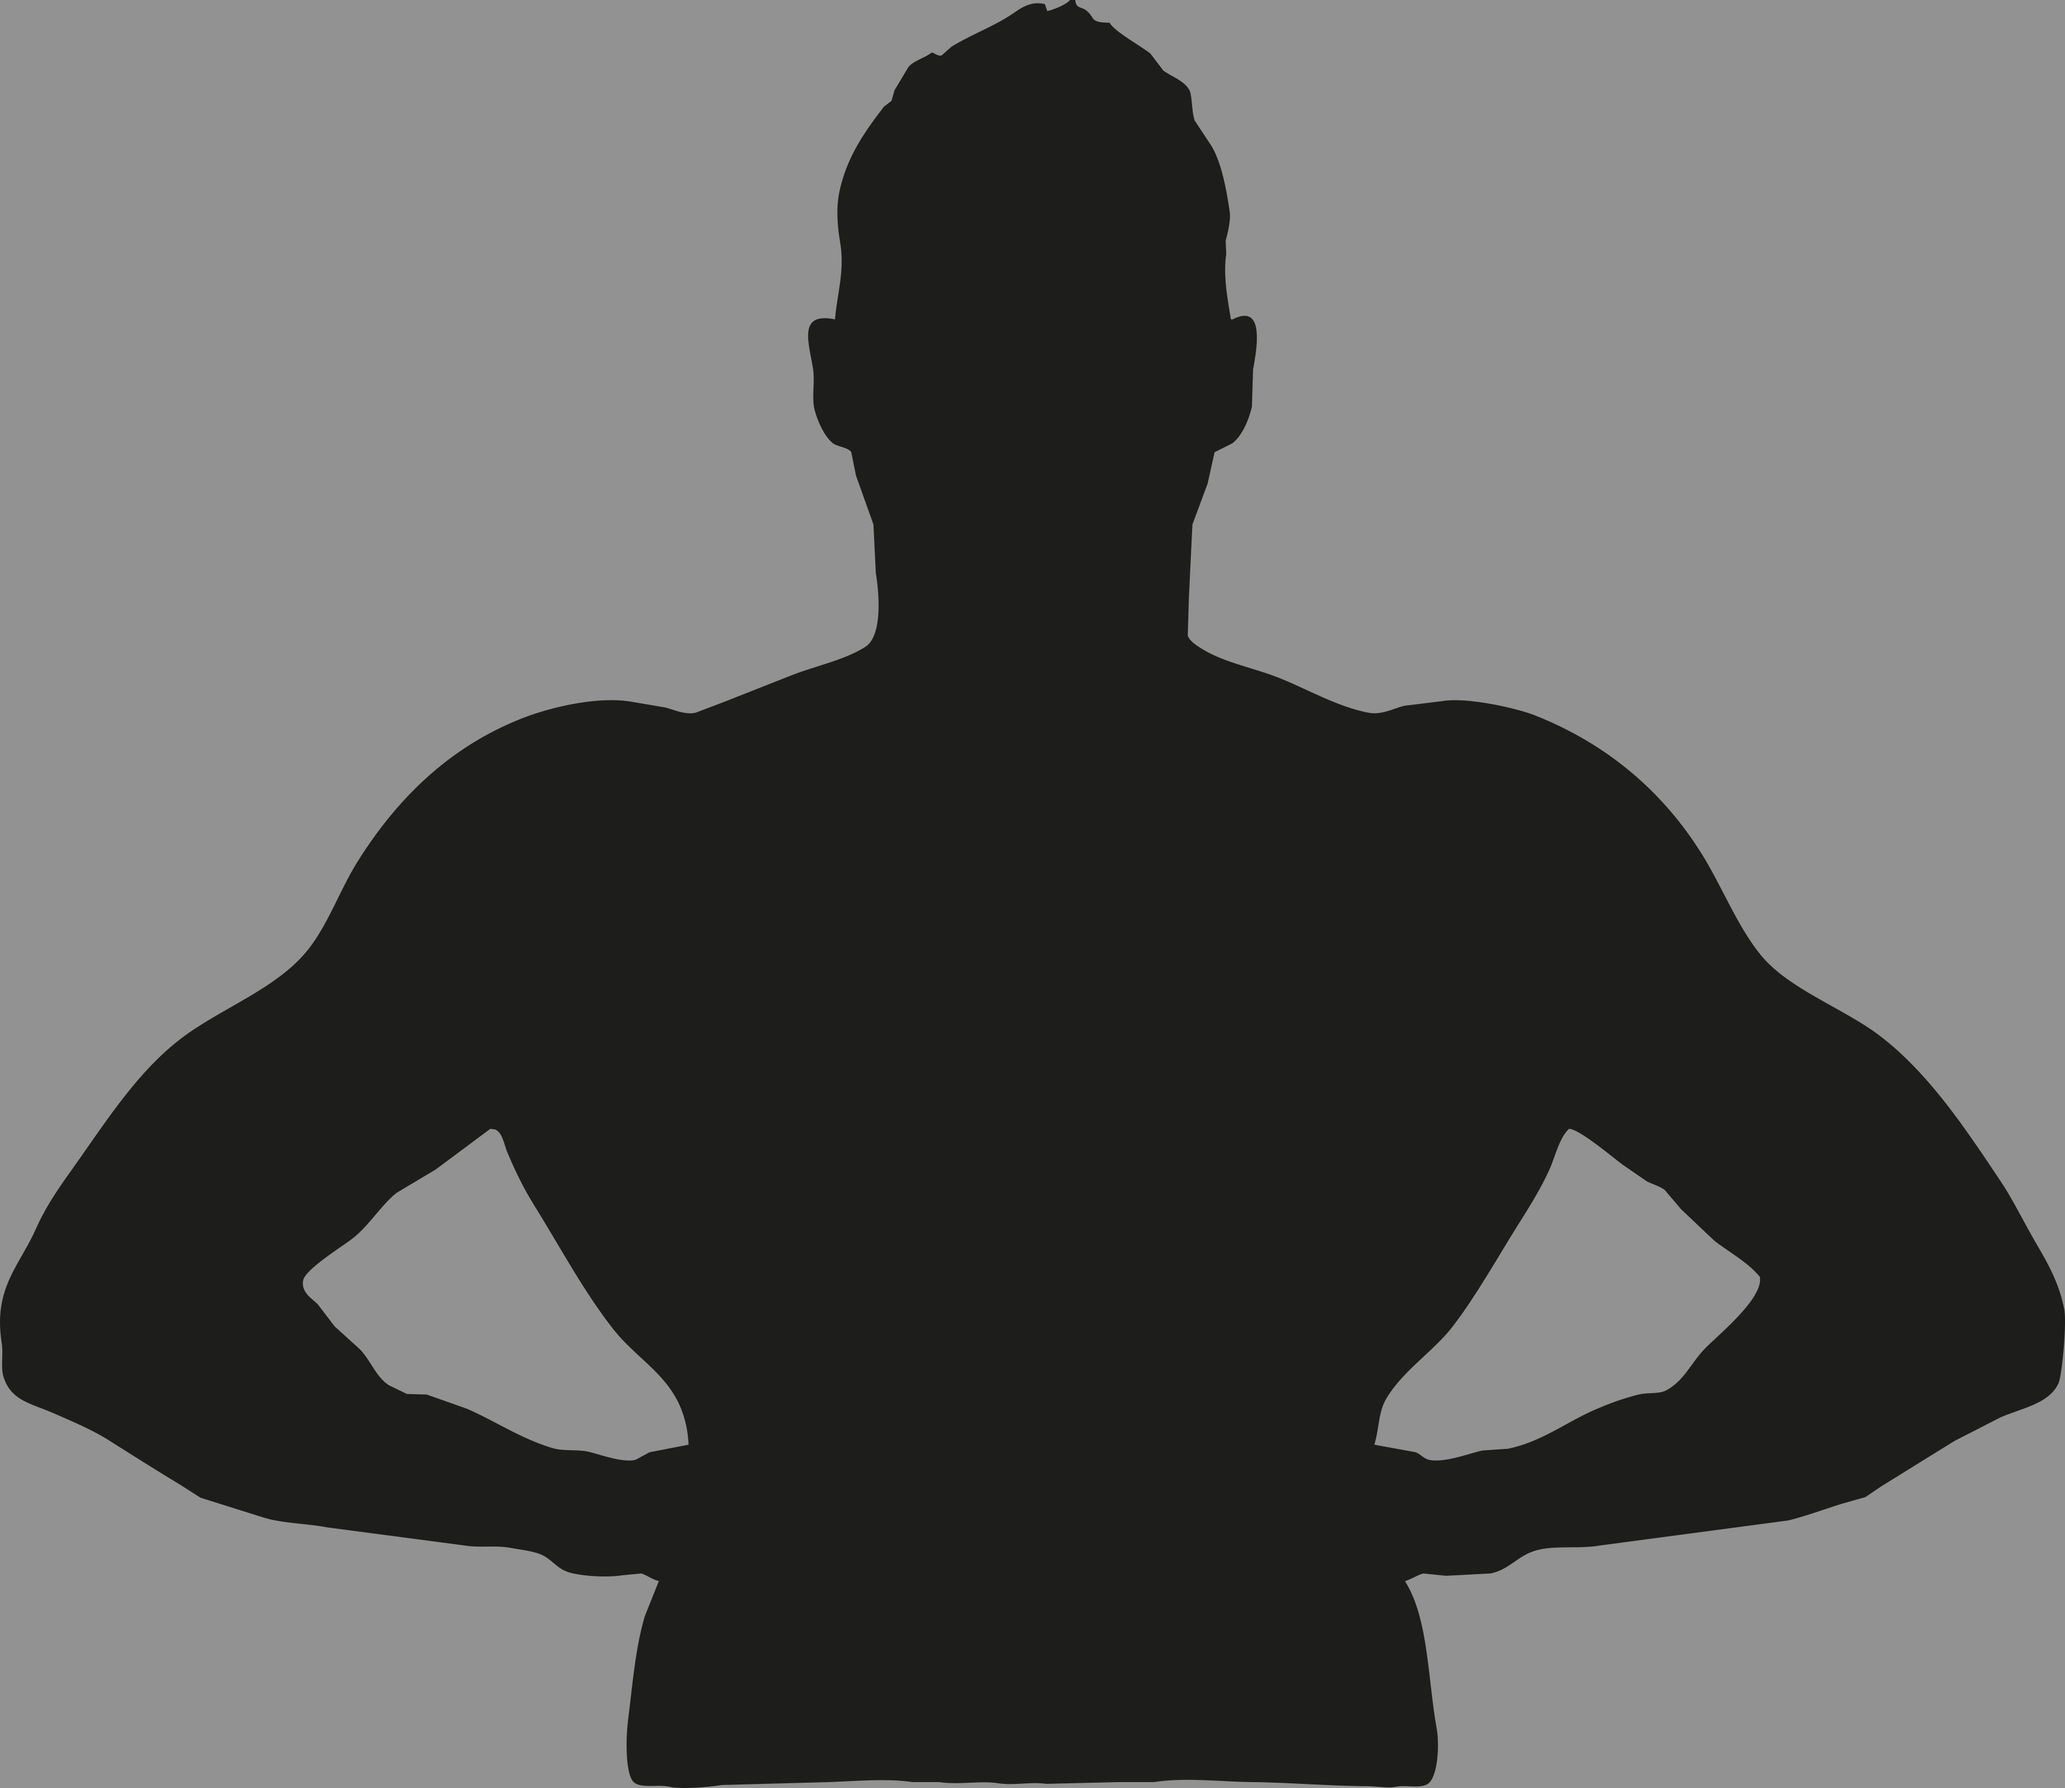
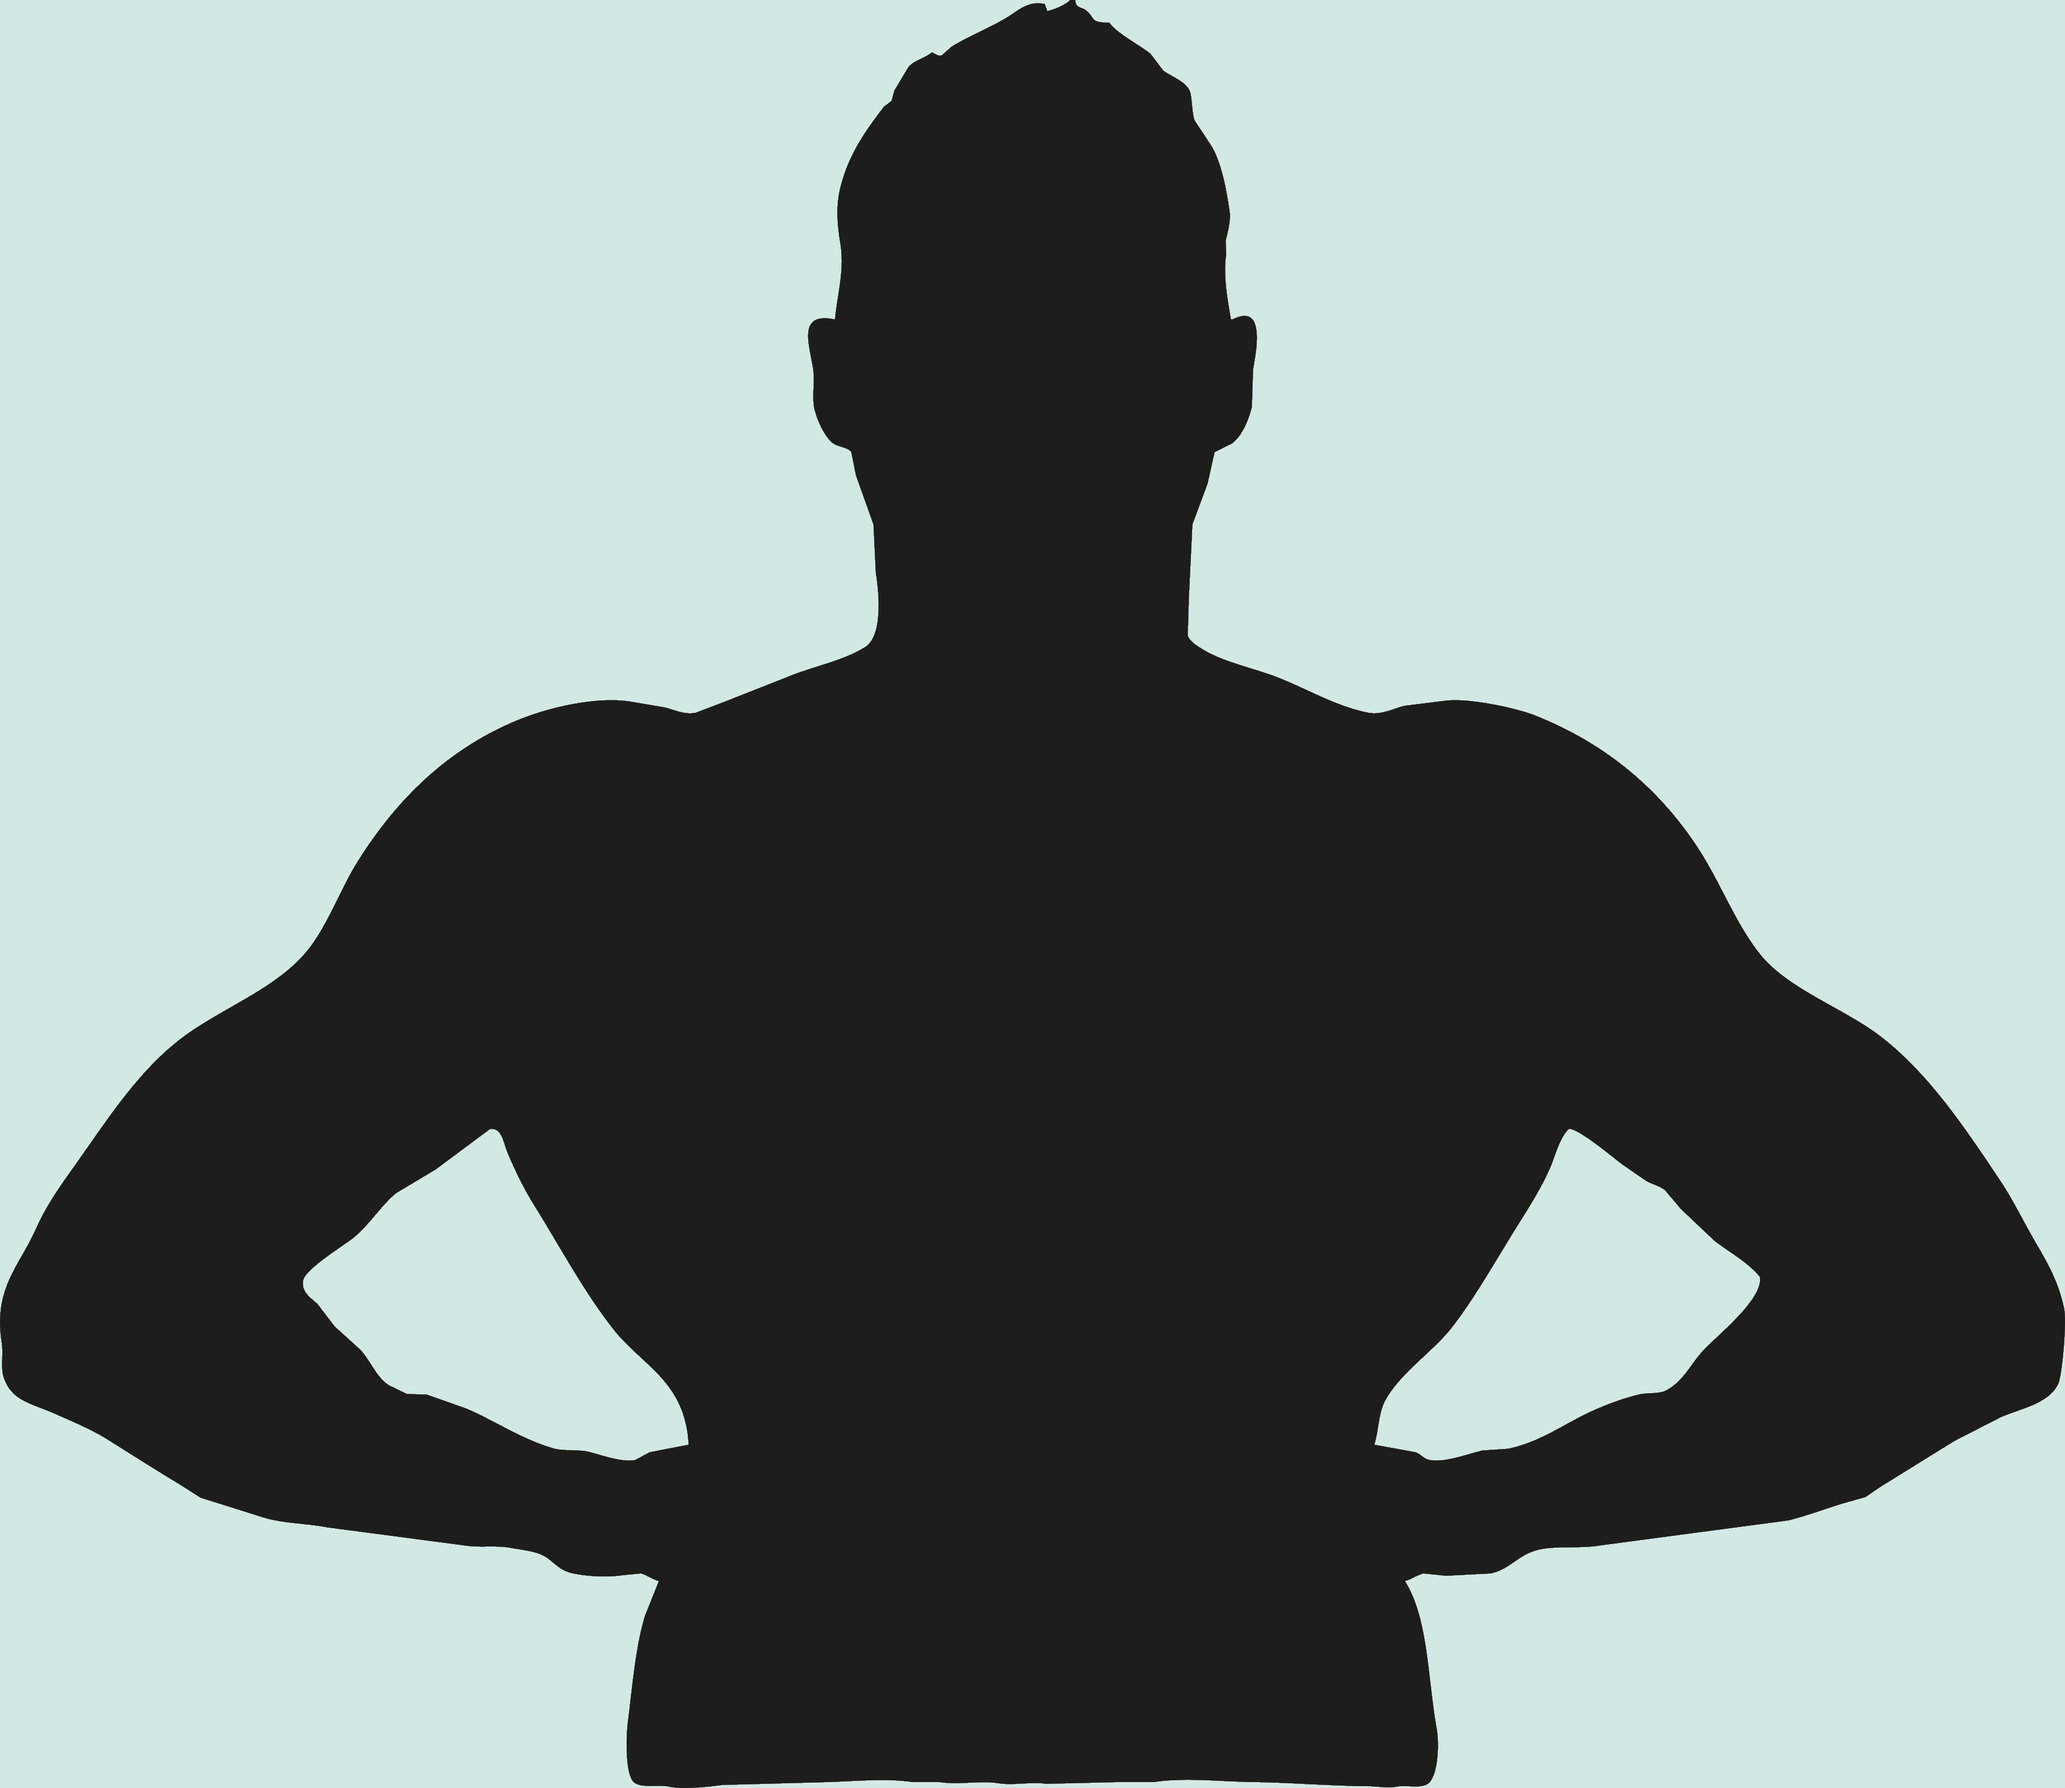
web page is alive

diff --git a/membership.html b/membership.html
@@ -62,13 +62,13 @@
     </header>
     <div class="header-picture parallax">
         <div class="column article image overlay">
-            <img src="/img/Dávid_vektor_gold_bg.jpg" alt="Gold" style="width:100%">
+            <img src="/img/David_vektor_gold_bg.jpg" alt="Gold" style="width:100%">
         </div>
         <div class="column">
-            <img src="/img/Dávid_vektor_silver_bg.jpg" alt="Silver" style="width:100%">
+            <img src="/img/David_vektor_silver_bg.jpg" alt="Silver" style="width:100%">
         </div>
         <div class="column">
-            <img src="/img/Dávid_vektor_bronze_bg.jpg" alt="Bronse" style="width:100%">
+            <img src="/img/David_vektor_bronze_bg.jpg" alt="Bronse" style="width:100%">
         </div>
     </div>
     <div class="container align-self-center align-items-center" id="container">

diff --git a/css/index.css b/css/index.css
@@ -9,7 +9,7 @@ body {
   background-position: center;
   background-repeat: no-repeat;
   background-size: cover;
-  background-color: #919191;
+  background-color: #d2e9e3;
 }
 
 .column {
@@ -47,15 +47,16 @@ p {
 @media only screen and (min-width: 992px) {
   .parallax {
     height: 1000px;
+    margin-bottom: 10%;
   }
 
   .column {
     padding: 0;
     margin-top: 8%;
     margin-bottom: 0;
-    margin-left: 13.5%;
-    height: 70%;
-    width: 70%;
+    margin-left: 20%;
+    height: 100%;
+    width: 60%;
   }
 
   .content {
@@ -63,6 +64,6 @@ p {
   }
 
   p {
-    font-size: 1em;
+    font-size: 1.2em;
   }
 }

diff --git a/css/slideshoweating.css b/css/slideshoweating.css
@@ -48,7 +48,7 @@ h6{
         left: 0px;
         z-index: 0;
         top: 50px;
-        height: 800px;
+        height: 1000px;
     }
     
     .slideshow li span {
@@ -63,7 +63,7 @@ h6{
         opacity: 0;
         z-index: 0;
         animation: imageAnimation 24s linear infinite 0s;
-        height: 800px;
+        height: 1000px;
     }
         
     .slideshow li:nth-child(1) span {
@@ -124,5 +124,13 @@ h6{
     
     .no-cssanimations .cb-slideshow li span {
         opacity: 1;
+    }
+
+    p{
+        font-size: 1.2em;
+    }
+
+    h3{
+        font-size: 1.5em;
     }
 }

diff --git a/css/membership.css b/css/membership.css
@@ -54,7 +54,7 @@ ul{
 
 @media only screen and (min-width: 992px) {
   .parallax {
-    min-height: 900px;
+    min-height: 1000px;
   }
 
   .column {
@@ -63,8 +63,13 @@ ul{
   }
 
   h3 {
-    margin: 50% 0 5% 0;
-  }
+		margin: 50% 0 5% 0;
+		font-size: 1.5em;
+	}
+	
+	li{
+		font-size: 1.2em;
+	}
 
 	.bronze{
 		margin-left: 20%;

diff --git a/css/training.css b/css/training.css
@@ -50,11 +50,15 @@ video{
 
   #video{
     margin-left: 35%;
-    margin-top: -5%;
+    margin-top: -12%;
    }
    
    video{
      width: 50%;
+   }
+
+   p{
+     font-size: 1.2em;
    }
 
 }

diff --git a/css/slideshowspirit.css b/css/slideshowspirit.css
@@ -134,4 +134,12 @@ p {
   .no-cssanimations .cb-slideshow li span {
     opacity: 1;
   }
+
+  p{
+    font-size: 1.2em;
+  }
+
+  h3{
+    font-size: 1.5em;
+  }
 }

diff --git a/css/subscribe.css b/css/subscribe.css
@@ -45,4 +45,7 @@ input{
         margin-top: 2em;
     }
 
+    label{
+        font-size: 1.2em;
+    }
 }
